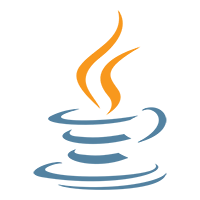
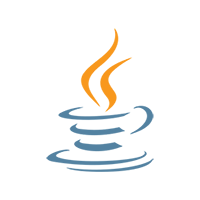
update tech image fix some layout bugs

Changed region(s): [[0.15, 0.03, 0.84, 0.96], [0.75, 0.78, 0.78, 0.81], [0.72, 0.75, 0.75, 0.78]]

diff --git a/index.html b/index.html
@@ -73,6 +73,7 @@
     </div>
   </div>
 
+  <!-- SECTION BLOG -->
   <div class="section no-height">
     <div class="container">
       <div class="section-content">
@@ -634,6 +635,7 @@
     </div>
   </div>
 
+  <!-- SECTION SKILL -->
   <div class="section light outline-none">
     <h2 class="section-title">対応可能な技術</h2>
     <div class="mb-6"></div>
@@ -641,76 +643,55 @@
       <div class="container">
         <ul class="tech-list">
           <li class="item">
-            <img src="./img/tech/html.png" alt="">
-            <p>HTML</p>
-          </li>
-          <li class="item">
-            <img src="./img/tech/css.png" alt="">
-            <p>CSS</p>
-          </li>
-          <li class="item">
-            <img src="./img/tech/jquery.png" alt="">
-            <p>jQuery</p>
-          </li>
-          <li class="item">
-            <img src="./img/tech/react.png" alt="">
-            <p>React/React Native</p>
-          </li>
-          <li class="item">
-            <img src="./img/tech/vue.png" alt="">
-            <p>Vuejs</p>
-          </li>
-          <li class="item">
-            <img src="./img/tech/python.png" alt="">
-            <p>Python</p>
-          </li>
-          <li class="item">
-            <img src="./img/tech/ruby.png" alt="">
-            <p>Ruby on rails</p>
-          </li>
-          <li class="item">
-            <img src="./img/tech/cakephp.png" alt="">
-            <p>Cakephp</p>
+            <img src="./img/tech/php.png" alt="">
           </li>
           <li class="item">
             <img src="./img/tech/laravel.png" alt="">
-            <p>Laravel</p>
           </li>
           <li class="item">
-            <img src="./img/tech/wordpress.png" alt="">
-            <p>Wordpress</p>
+            <img src="./img/tech/cakephp.png" alt="">
+          </li>
+          <li class="item">
+            <img src="./img/tech/ruby.png" alt="">
           </li>
           <li class="item">
             <img src="./img/tech/swift.png" alt="">
-            <p>Swift</p>
           </li>
           <li class="item">
             <img src="./img/tech/objective-c.png" alt="">
-            <p>Objective-C</p>
-          </li>
-          <li class="item">
-            <img src="./img/tech/kotlin.png" alt="">
-            <p>Kotlin</p>
           </li>
           <li class="item">
             <img src="./img/tech/java.png" alt="">
-            <p>Java</p>
+          </li>
+          <li class="item">
+            <img src="./img/tech/kotlin.png" alt="">
+          </li>
+          <li class="item">
+            <img src="./img/tech/python.png" alt="">
+          </li>
+          <li class="item">
+            <img src="./img/tech/react.png" alt="">
+          </li>
+          <li class="item">
+            <img src="./img/tech/nodejs.png" alt="">
+          </li>
+          <li class="item">
+            <img src="./img/tech/vue.png" alt="">
+          </li>
+          <li class="item">
+            <img src="./img/tech/wordpress.png" alt="">
           </li>
           <li class="item">
             <img src="./img/tech/docker.png" alt="">
-            <p>Docker</p>
           </li>
           <li class="item">
             <img src="./img/tech/aws.png" alt="">
-            <p>AWS</p>
           </li>
           <li class="item">
             <img src="./img/tech/mongodb.png" alt="">
-            <p>MongoDB</p>
           </li>
           <li class="item">
             <img src="./img/tech/mysql.png" alt="">
-            <p>Mysql</p>
           </li>
         </ul>
       </div>

diff --git a/css/responsive.css b/css/responsive.css
@@ -50,7 +50,10 @@
   .section-sub-title { font-size: 16px; text-align: left; }
   .section.no-height .section-content ul li { display: none; }
   .section.no-height .section-content ul li:first-child { display: block; }
+  .section.no-height .section-content ul li:nth-child(2) { display: block; }
   .section.no-height .section-content h2 { margin: 0px; }
+  .section.no-height .section-content .col-md-6:nth-child(2) h2 { display: none; }
+  .section.no-height .section-content .col-md-6:nth-child(2) ul li:nth-child(2) { display: none; }
   .section.no-height .section-content ul li a .date,
   .section.no-height .section-content ul li a .title { display: block; width: 100%; }
 

diff --git a/css/main.css b/css/main.css
@@ -728,7 +728,7 @@ body {
 
 .tech-list { list-style: none; text-align: center; padding: 0; margin: 0; }
 .tech-list .item { display: inline-block; width: 170px; text-align: center; margin-bottom: 30px; white-space: nowrap; }
-.tech-list .item img { height: 80px; width: auto; }
+.tech-list .item img { height: 100px; width: auto; }
 /* ==========================================================================
    CARD
    ========================================================================== */
